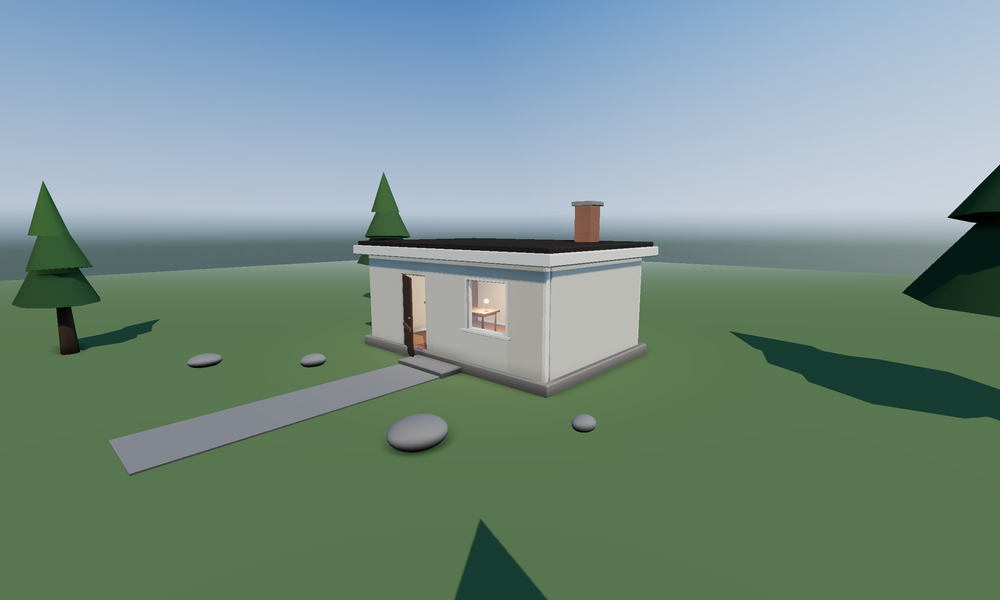
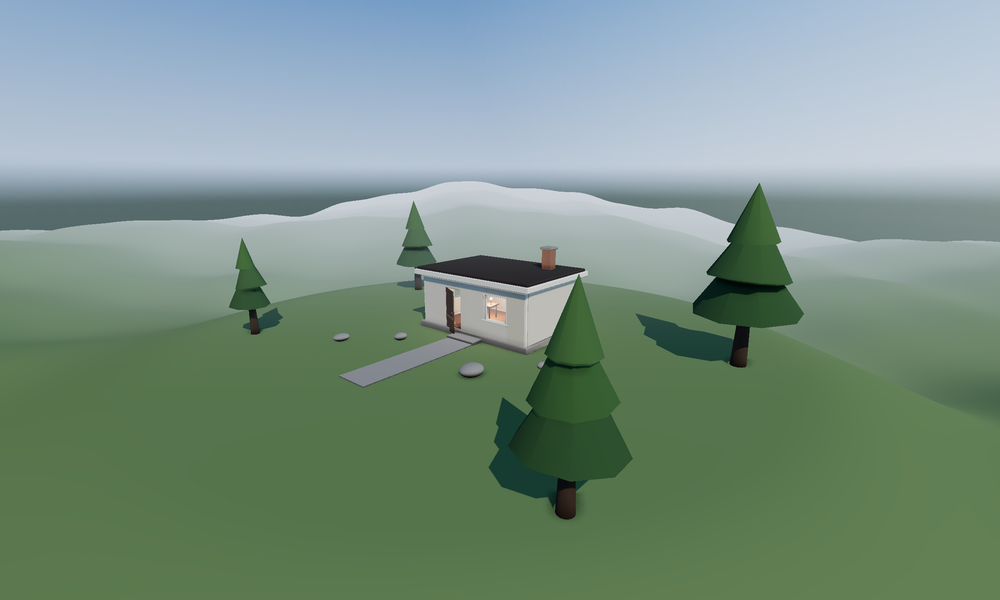
walkable-3d: terrain
A heightfield primitive, since the honest limit last time was that the ground
was one flat plane to the horizon and patches painted on it looked like a bug.

kind: "terrain" builds seeded value noise with the usual controls - amplitude,
frequency, octaves - plus two things that make it usable rather than a demo.
Vertex colours blended by slope, so steep faces read as rock and folds stay
green without a texture. And flatten regions: discs levelled to a height so a
building has ground to stand on. It is a mesh like any other, so the walk
controller finds it by raycast and it is walkable with no further work.

Two audit bugs surfaced building it, both from checks that were guessing.

"No surface under the spawn point" was computed from bounding boxes, and a
heightfield's box reaches far above the player - so standing on a hillside
reported as falling out of the world. The audit now asks the walk controller
where the ground actually is, through a new __groundAt hook, which is exact for
any geometry.

"Only 1 mesh in the scene" was an error, on the theory that a near-empty scene
means the objects never parsed. A scene that is one terrain is unusual, not
broken. It errors at zero now.

Documented with the caveat the test scene demonstrated: a flatten falloff
shorter than the surrounding relief cuts a cookie-cutter mesa with vertical
sides. Falloff should be at least the amplitude, and equal to the radius is a
good default.
[…]

diff --git a/walkable-3d/assets/template/runtime.js b/walkable-3d/assets/template/runtime.js
@@ -150,6 +150,69 @@ function applyWorldUV(geo, scale) {
   return geo;
 }
 
+/* ------------------------------------------------------------- terrain ---
+   A heightfield from seeded value noise, with regions you can flatten so a
+   building has level ground to stand on, and a slope-driven colour blend so
+   steep faces read as rock without needing a texture. The walk controller finds
+   it by raycast like any other mesh, so it is walkable for free.            */
+
+function terrainGeometry(o) {
+  const [w, d] = o.size ?? [120, 120];
+  const seg = Math.max(8, Math.min(o.segments ?? 140, 400));
+  const geo = new THREE.PlaneGeometry(w, d, seg, seg);
+  geo.rotateX(-Math.PI / 2);
+
+  const seed = (o.seed ?? 1) | 0;
+  const hash = (x, z) => {
+    let h = Math.imul(Math.imul(x, 374761393) + Math.imul(z, 668265263) + seed, 1274126177);
+    h = (h ^ (h >>> 13)) >>> 0;
+    return h / 4294967296;
+  };
+  const ease = t => t * t * (3 - 2 * t);
+  const vnoise = (x, z) => {
+    const xi = Math.floor(x), zi = Math.floor(z);
+    const u = ease(x - xi), v = ease(z - zi);
+    const a = hash(xi, zi), b = hash(xi + 1, zi), c = hash(xi, zi + 1), e = hash(xi + 1, zi + 1);
+    return (a * (1 - u) + b * u) * (1 - v) + (c * (1 - u) + e * u) * v;
+  };
+
+  const freq0 = o.frequency ?? 0.018, amp0 = o.amplitude ?? 5, oct = o.octaves ?? 4;
+  const flats = o.flatten ?? [];
+  const pos = geo.attributes.position;
+
+  for (let i = 0; i < pos.count; i++) {
+    const x = pos.getX(i), z = pos.getZ(i);
+    let h = 0, f = freq0, a = amp0;
+    for (let k = 0; k < oct; k++) { h += (vnoise(x * f, z * f) - 0.5) * 2 * a; f *= 2.03; a *= 0.5; }
+    for (const fl of flats) {
+      const [fx, fz] = fl.at ?? [0, 0];
+      const r = fl.radius ?? 10, fo = Math.max(fl.falloff ?? 8, 1e-3);
+      const dist = Math.hypot(x - fx, z - fz);
+      const t = dist <= r ? 1 : dist >= r + fo ? 0 : 1 - ease((dist - r) / fo);
+      h = h * (1 - t) + (fl.height ?? 0) * t;
+    }
+    pos.setY(i, h);
+  }
+  geo.computeVertexNormals();
+
+  // Slope colouring: flat is ground, steep is rock, blended over a few degrees.
+  const flat = new THREE.Color(o.color ?? '#6b8250');
+  const steep = new THREE.Color(o.slopeColor ?? '#8a8378');
+  const lo = Math.cos((o.slopeAngle ?? 30) * D2R);
+  const hi = Math.cos((o.slopeAngle ?? 30) * D2R + 16 * D2R);
+  const nor = geo.attributes.normal;
+  const col = new Float32Array(pos.count * 3);
+  const c = new THREE.Color();
+  for (let i = 0; i < pos.count; i++) {
+    const up = nor.getY(i);
+    const t = THREE.MathUtils.clamp((lo - up) / Math.max(lo - hi, 1e-4), 0, 1);
+    c.copy(flat).lerp(steep, t);
+    col[i * 3] = c.r; col[i * 3 + 1] = c.g; col[i * 3 + 2] = c.b;
+  }
+  geo.setAttribute('color', new THREE.BufferAttribute(col, 3));
+  return geo;
+}
+
 /* --------------------------------------------------------- rounded boxes ---
    A perfectly sharp edge is the loudest tell of untouched CAD. Every real edge
    has a small radius that catches a highlight; 1-2 cm is invisible as geometry
@@ -191,6 +254,7 @@ const RAW = {
     o.height ?? 1, o.segments ?? 28),
   cone: o => new THREE.ConeGeometry(o.radius ?? 0.5, o.height ?? 1, o.segments ?? 28),
   torus: o => new THREE.TorusGeometry(o.radius ?? 0.5, o.tube ?? 0.15, 16, o.segments ?? 32),
+  terrain: terrainGeometry,
 };
 
 const GEOM = new Proxy(RAW, {
@@ -341,6 +405,13 @@ function buildScene(manifest, renderer) {
       node = makeLight(o);
     } else if (o.kind === 'group' || !o.kind) {
       node = new THREE.Group();
+    } else if (o.kind === 'terrain') {
+      const m = matFor(o).clone();
+      m.vertexColors = true;
+      m.color.set('#ffffff');          // the slope blend carries the colour
+      node = new THREE.Mesh(GEOM.terrain(o), m);
+      node.castShadow = o.castShadow ?? false;
+      node.receiveShadow = true;
     } else if (GEOM[o.kind]) {
       node = new THREE.Mesh(GEOM[o.kind](o), matFor(o));
       node.castShadow = o.castShadow ?? true;
@@ -593,6 +664,12 @@ async function boot() {
    *  requestAnimationFrame — which a headless or hidden page throttles or pauses
    *  outright. This is how a checker asks "does the ground hold the player up?"
    *  and gets the same answer every time. */
+  /** The exact ground height the walk controller would find, for any geometry.
+   *  A bounding-box guess cannot answer this for a heightfield: a terrain's box
+   *  reaches far above the player, so "is there a surface under the spawn?"
+   *  comes back no while they are standing on a hill. */
+  window.__groundAt = (x, z, from) => ctrl.floorAt(x, z, from ?? 200);
+
   window.__simulate = (sec = 1, dt = 1 / 60) => {
     const n = Math.max(1, Math.round(sec / dt));
     for (let i = 0; i < n; i++) ctrl.step(dt);

diff --git a/README.md b/README.md
@@ -17,7 +17,7 @@ the DevTools protocol, or Python standard library. Nothing to install.
 
 | skill | does |
 |---|---|
-| [`walkable-3d`](walkable-3d) | prompt / photo / sketch → a walkable Three.js scene, structurally audited, exported to `.glb` with every object still named and separable for Blender or Unreal |
+| [`walkable-3d`](walkable-3d) | prompt / photo / sketch → a walkable Three.js scene on generated terrain, structurally audited, exported to `.glb` with every object still named and separable for Blender or Unreal |
 | [`playable-prototype`](playable-prototype) | one brief → several genuinely different browser game prototypes, each proven playable — and measured for whether the inputs carry a decision at all |
 | [`frontend-qa`](frontend-qa) | verify a page at three widths and drive its real flows, then report what's broken with evidence |
 | [`house-style`](house-style) | pull the house style out of the user's own documents — the palette *and* the writing — then check new ones actually match |
@@ -59,7 +59,7 @@ whether bullets end in a full stop, how long a heading runs.
 
 ## Verified
 
-`./verify.sh` reproduces every claim below. 23 checks, no arguments, no setup —
+`./verify.sh` reproduces every claim below. 24 checks, no arguments, no setup —
 it builds its own fixtures in a temp directory and cleans up after itself.
 
 ```
@@ -68,6 +68,7 @@ walkable-3d
   ok    audit fails a scene with the player trapped in geometry
   ok    shot.mjs renders a frame headlessly
   ok    audit fails a scene that does not hold the player up
+  ok    a terrain scene audits clean and holds the player up
   ok    --plan cuts through the roof for an interior view
   ok    glTF export keeps object names and parenting
 playable-prototype
@@ -217,8 +218,13 @@ all six default angles — this is what the six show you instead:
 </p>
 
 <p align="center">
-  <img src="media/cabin-exterior.png" width="820" alt="Exterior of the same cabin: plinth course, corner boards, a door standing ajar with the lit interior showing, low-poly conifers framing rather than blocking">
-  <br><em>And from outside. A plinth to sit the walls on the ground, corner boards to break the facade, a door leaf ajar so the lit interior shows through — none of it texture.</em>
+  <img src="media/cabin-exterior.png" width="820" alt="Exterior of the same cabin on rolling terrain: plinth course, corner boards, a door standing ajar with the lit interior showing, conifers framing rather than blocking">
+  <br><em>And from outside, on a heightfield levelled where the building sits. A plinth to sit the walls on the ground, corner boards to break the facade, a door leaf ajar so the lit interior shows through — none of it texture.</em>
+</p>
+
+<p align="center">
+  <img src="media/terrain.png" width="820" alt="Hill country generated from seeded noise, rock colouring on the steep faces and green in the folds, with one flattened disc carrying a marker post">
+  <br><em><code>kind: "terrain"</code> — seeded value noise, vertex colours blended by slope, and discs you flatten so a building has ground to stand on. It is a mesh, so it is walkable without doing anything else.</em>
 </p>
 
 ### playable-prototype
@@ -389,7 +395,7 @@ exposed — typing into its search field filtered a table the tree never describ
 ## Try it without asking Claude
 
 ```bash
-./verify.sh                                                   # all 23 checks, ~4 min
+./verify.sh                                                   # all 24 checks, ~5 min
 node walkable-3d/scripts/serve.mjs walkable-3d/assets/template --open
 open playable-prototype/assets/template/game.html
 ```

diff --git a/walkable-3d/references/manifest.md b/walkable-3d/references/manifest.md
@@ -109,6 +109,41 @@ A flat array, or nested via `children`, or both. Every entry needs a unique `id`
 | `torus` | `radius`, `tube`, `segments` |
 | `group` | none — a transform node for its children |
 | `light` | `light`: `"point"` (default) or `"spot"`; `color`, `intensity`, `distance`, `decay`; spots also take `angle` (degrees) and `penumbra`. `castShadow: true` to cast |
+| `terrain` | a heightfield — see below |
+
+### Terrain
+
+```json
+{ "id": "terrain", "kind": "terrain",
+  "size": [150, 150], "segments": 180, "seed": 7,
+  "amplitude": 5.5, "frequency": 0.016, "octaves": 4,
+  "color": "#6b8250", "slopeColor": "#8c8478", "slopeAngle": 27,
+  "flatten": [{ "at": [0, 1.5], "radius": 13, "falloff": 13, "height": 0 }],
+  "material": "grass", "castShadow": false }
+```
+
+Seeded value noise, so the same `seed` always gives the same landscape. It is a
+mesh like any other, so **the walk controller finds it by raycast and it is
+walkable for free** — you can climb a hill without doing anything else.
+
+| field | |
+|---|---|
+| `size`, `segments` | extent in metres, and grid resolution. 180 over 150 m is ~0.8 m per quad; past ~250 the triangle count starts to matter more than the detail does |
+| `amplitude` | peak-to-trough height, roughly. 5 is rolling, 20+ is hill country |
+| `frequency` | 0.01–0.02 for landscape scale. Higher gets noisy rather than detailed |
+| `octaves` | 4 is plenty |
+| `seed` | change it to get a different landscape at the same settings |
+| `color`, `slopeColor`, `slopeAngle` | vertex colours blended by slope — ground below the angle, rock above it, over a 16° band. Set `slopeColor` equal to `color` to switch it off |
+| `flatten` | list of `{ at: [x, z], radius, falloff, height }`. Levels a disc so a building has ground to stand on |
+| `material` | still applies for roughness and metalness; its colour is replaced by the slope blend |
+
+**Make `falloff` at least as large as the surrounding relief**, or the flattened
+disc reads as a cookie-cutter mesa with vertical sides — a 9 m falloff in 22 m of
+relief looks like a plinth someone dropped on the landscape. A falloff equal to
+the radius is a good starting point.
+
+Anything you place on terrain has to be placed at the height the terrain
+actually is. Flatten where you build, and put the buildings at that height.
 
 ### Light
 

diff --git a/walkable-3d/references/scale.md b/walkable-3d/references/scale.md
@@ -60,6 +60,19 @@ shows up in an orbit screenshot — only in the spawn shot and only if you look.
 | fridge | 0.70 × 0.70 × 1.80 |
 | TV, 55" | 1.25 × 0.08 × 0.72 |
 
+## Terrain
+
+| | |
+|---|---|
+| gentle parkland | `amplitude` 3–6, `frequency` 0.015 |
+| rolling countryside | 8–14, 0.012 |
+| hill country | 20–30, 0.010 |
+| a flat building site inside any of them | `flatten` with `falloff` ≥ the surrounding amplitude |
+
+A 150 m terrain at 180 segments is about 65 k triangles — more than the entire
+rest of a domestic scene, and worth checking against your budget before going
+finer. Detail past roughly one quad per metre is invisible at eye height.
+
 ## Outdoors and urban
 
 | | m |
@@ -137,11 +150,12 @@ until you give it these:
 4. **Trees that frame rather than block.** Push them to the sides and back. Four
    large cones directly in front of the subject is the most common way a good
    building is photographed badly. Vary height, girth, tilt and facet count.
-5. **Leave the ground alone.** A hard-edged rectangle of "gravel" or a lighter
-   patch of "meadow" lying on a flat plane reads as a rendering bug, not as
-   landscaping. Flat grass with one path is better than flat grass with
-   rectangles on it. Ground variation needs real terrain, and that is a
-   different job.
+5. **Ground variation needs terrain, not patches.** A hard-edged rectangle of
+   "gravel" or a lighter patch of "meadow" lying on a flat plane reads as a
+   rendering bug, not as landscaping. Use `kind: "terrain"` — a heightfield with
+   a flattened disc where the building sits — and let the slope colouring do the
+   variation. Flat grass with one path is still better than flat grass with
+   rectangles on it.
 
 ## Making it not look generated
 
